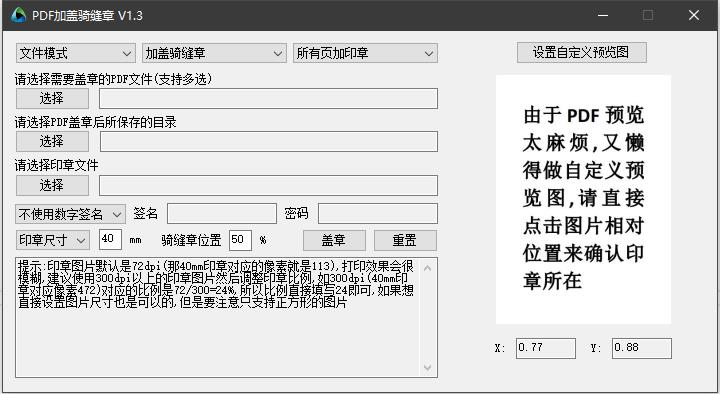
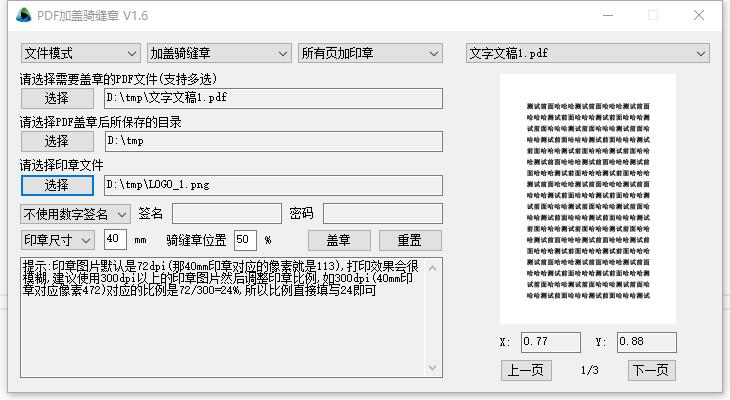
更新下程序截图 清理没用的函数 更新重置按钮需要重置的内容

diff --git a/PDFQFZ/Form1.cs b/PDFQFZ/Form1.cs
@@ -508,20 +508,6 @@ namespace PDFQFZ
             }
         }
 
-        private Bitmap[] ConvertPDF2Image(string pdfInputPath)
-        {
-            PDFFile pdfFile = PDFFile.Open(pdfInputPath);
-            int pages = pdfFile.PageCount;
-            Bitmap[] nImage = new Bitmap[pages];
-
-            for (int i = 0; i < pages; i++)
-            {
-                Bitmap pageImage = pdfFile.GetPageImage(i, 56 * 10);
-                nImage[i] = pageImage;
-            }
-            pdfFile.Dispose();
-            return nImage;
-        }
         //选择源文件
         private void SelectPath_Click(object sender, EventArgs e)
         {
@@ -596,6 +582,11 @@ namespace PDFQFZ
             pathText.Text = "";
             textBCpath.Text = "";
             textGZpath.Text = "";
+            imgPageCount = 0;
+            imgStartPage = 0;
+            dt.Rows.Clear();
+            dtPos.Rows.Clear();
+            pdfInputPath = null;
             log.Text = "提示:印章图片默认是72dpi(那40mm印章对应的像素就是113),打印效果会很模糊,建议使用300dpi以上的印章图片然后调整印章比例,如300dpi(40mm印章对应像素472)对应的比例是72/300=24%,所以比例直接填写24即可";
 
         }
